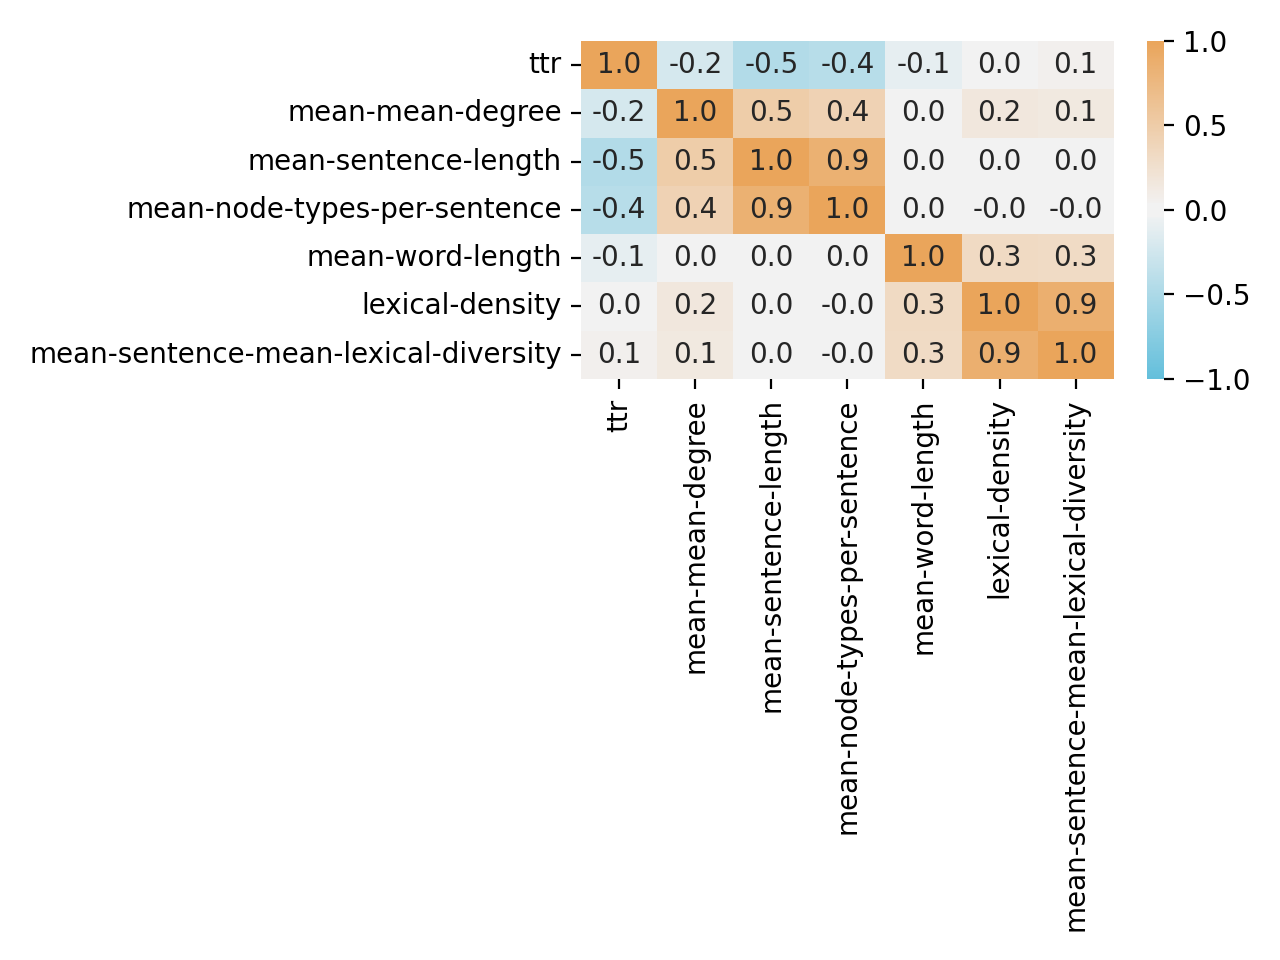
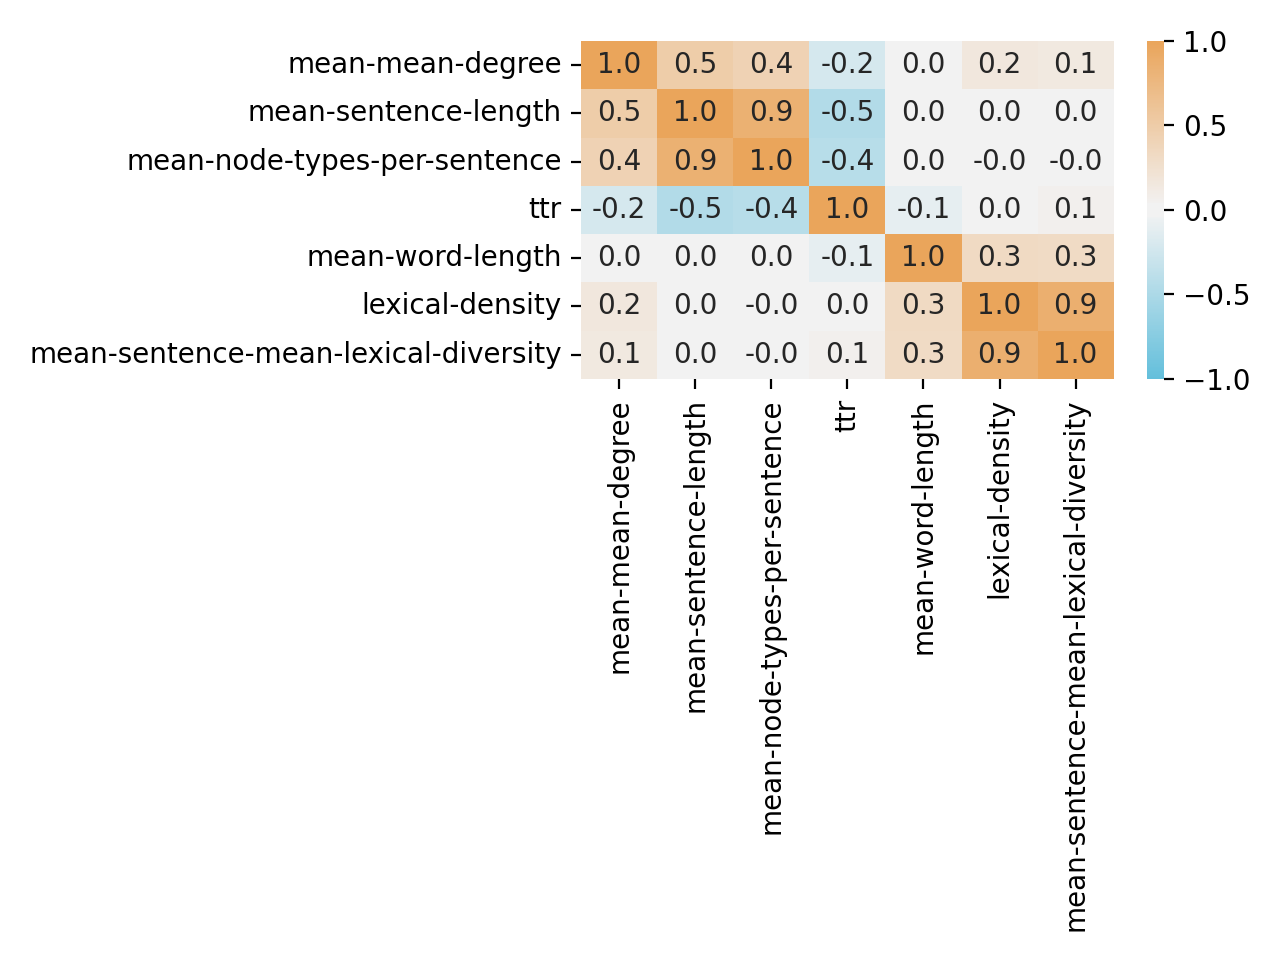
autocommit

diff --git a/src/lib.py b/src/lib.py
@@ -1,15 +1,12 @@
 import pandas as pd
 from functools import reduce
 
-def reorder(rho):
+
+def reorder(df):
   from scipy.cluster import hierarchy
-  row_linkage = hierarchy.linkage(rho.values)
-  col_linkage = hierarchy.linkage(rho.values.T)
-  
-  rows =        hierarchy.leaves_list(row_linkage)
-  cols =        hierarchy.leaves_list(row_linkage)
-  print(cols)
-  return rho.iloc[rows,cols]
+  ordering=[df.columns[i] for i in [4, 1, 3, 0, 2, 5, 6]]
+  print(ordering)
+  return df[ordering]
 
 def cmap():
   import seaborn as sns
